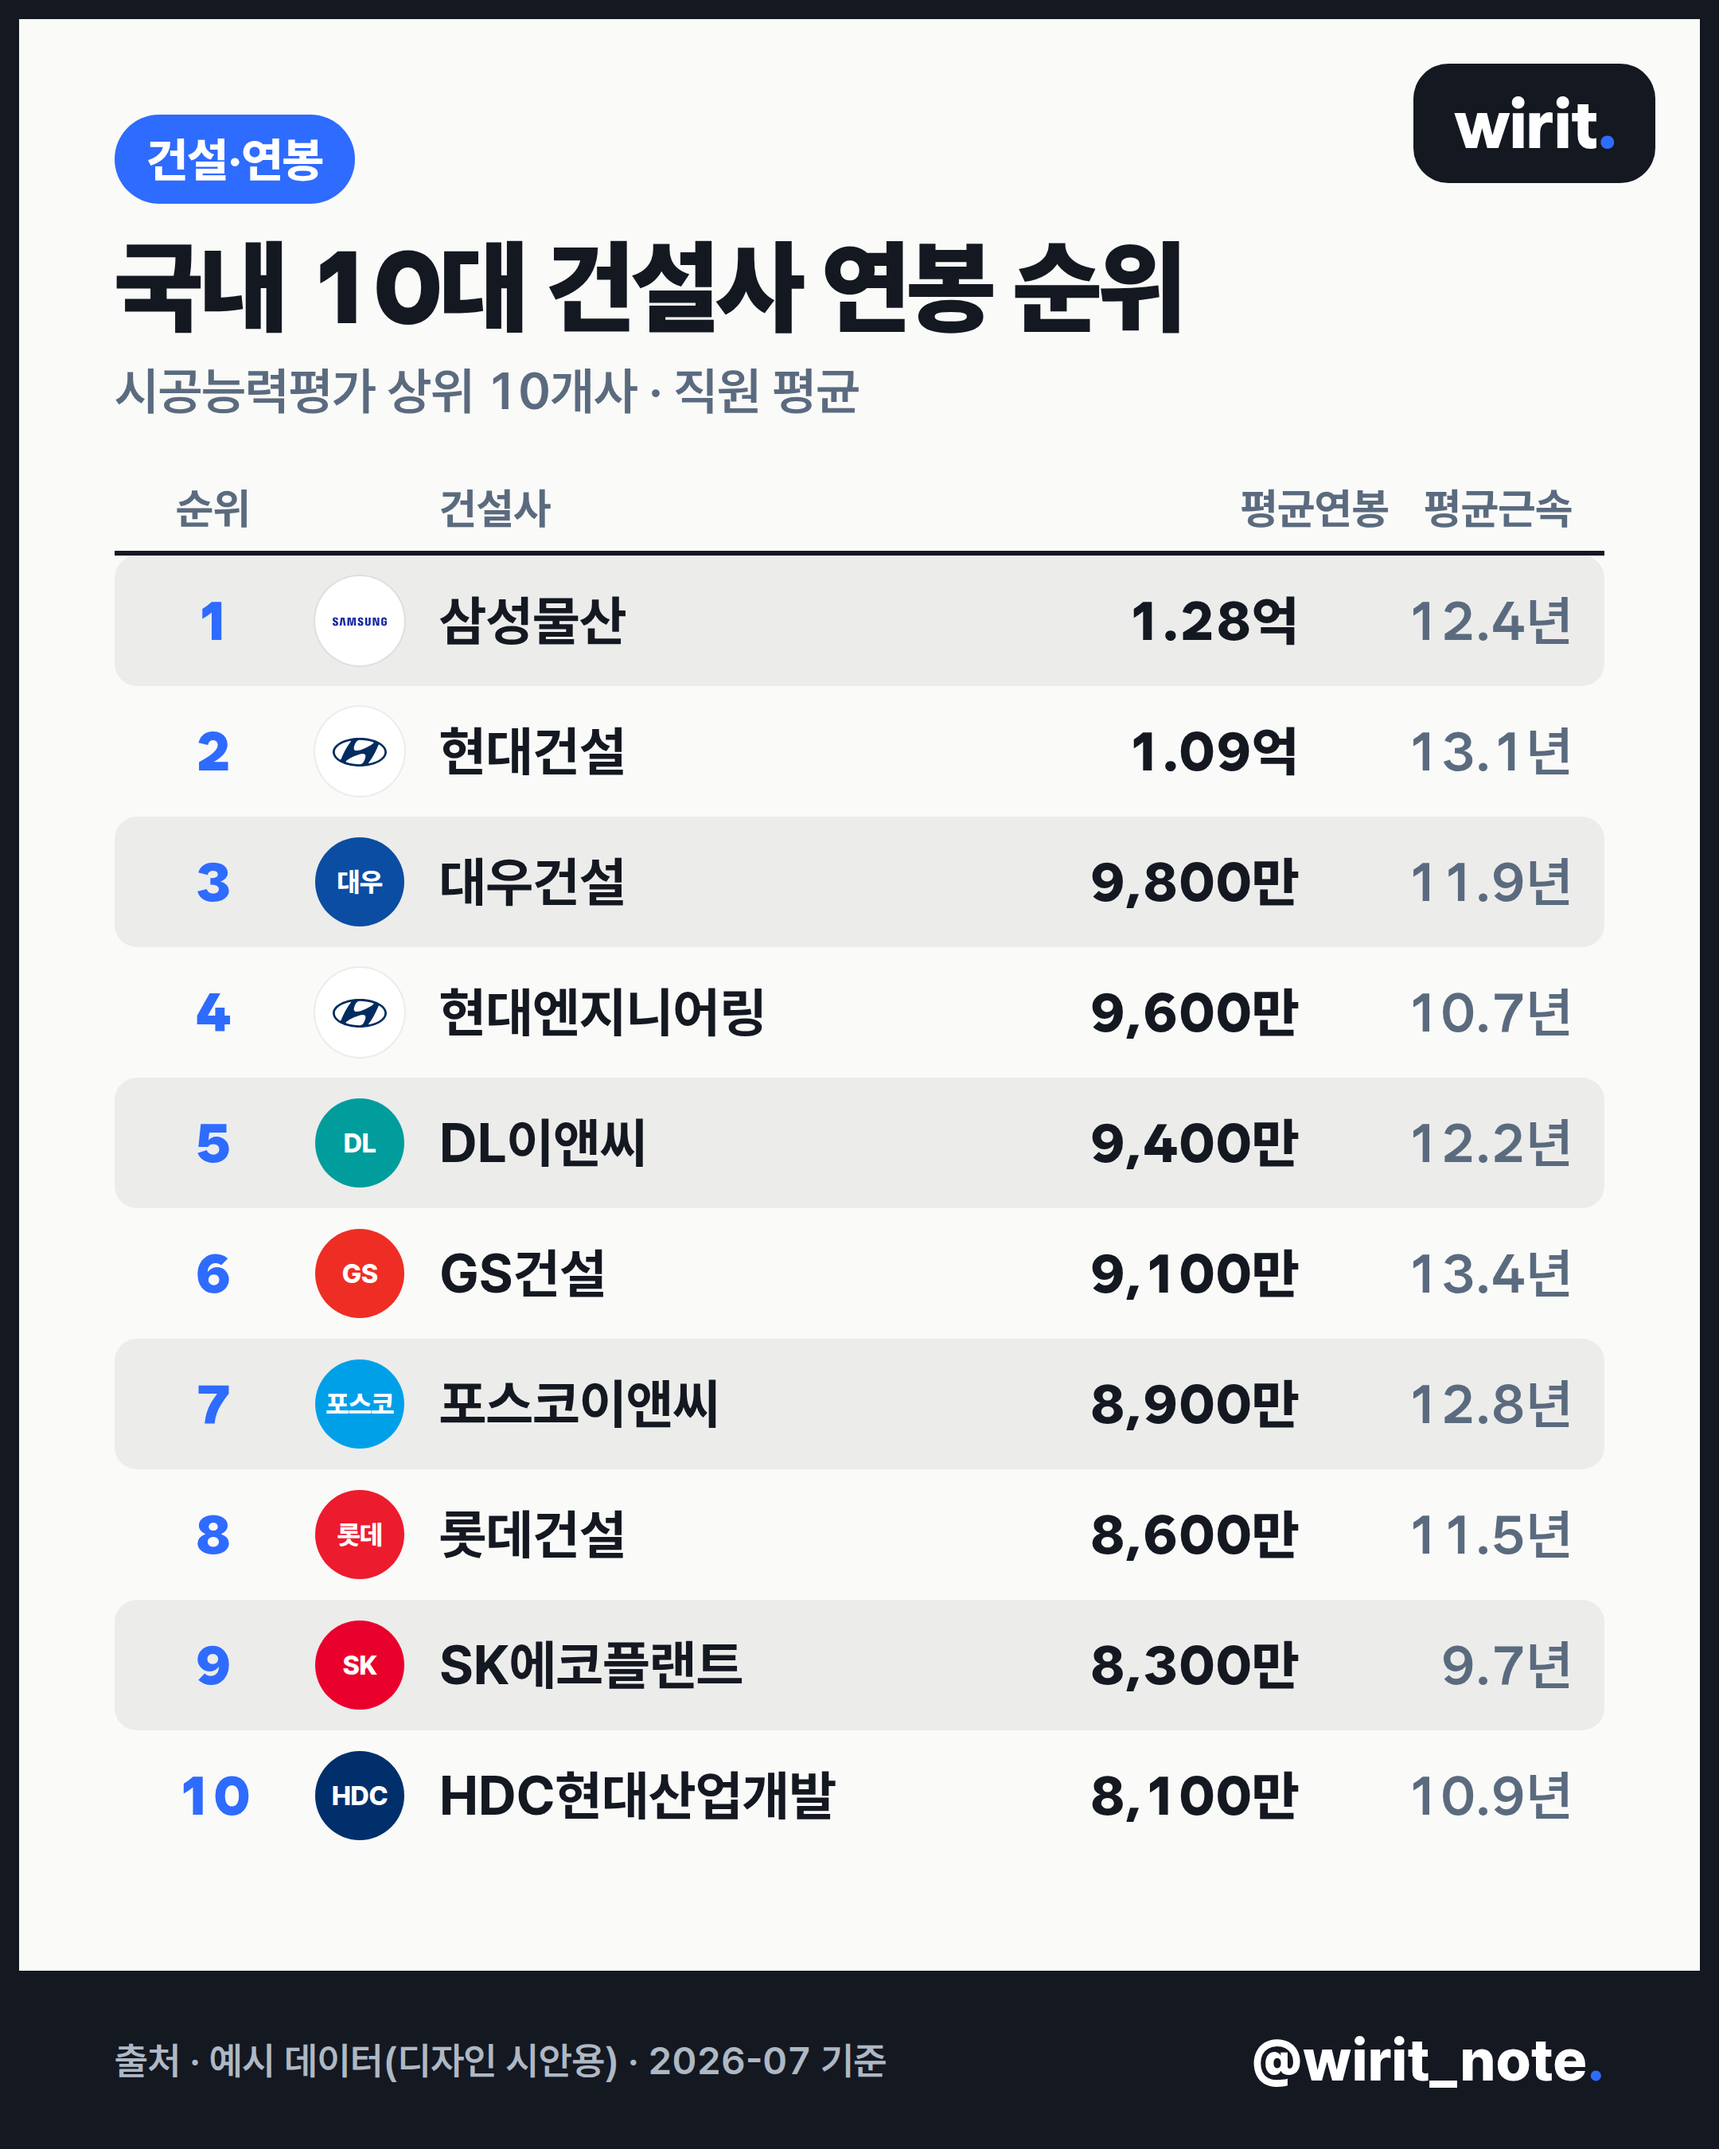
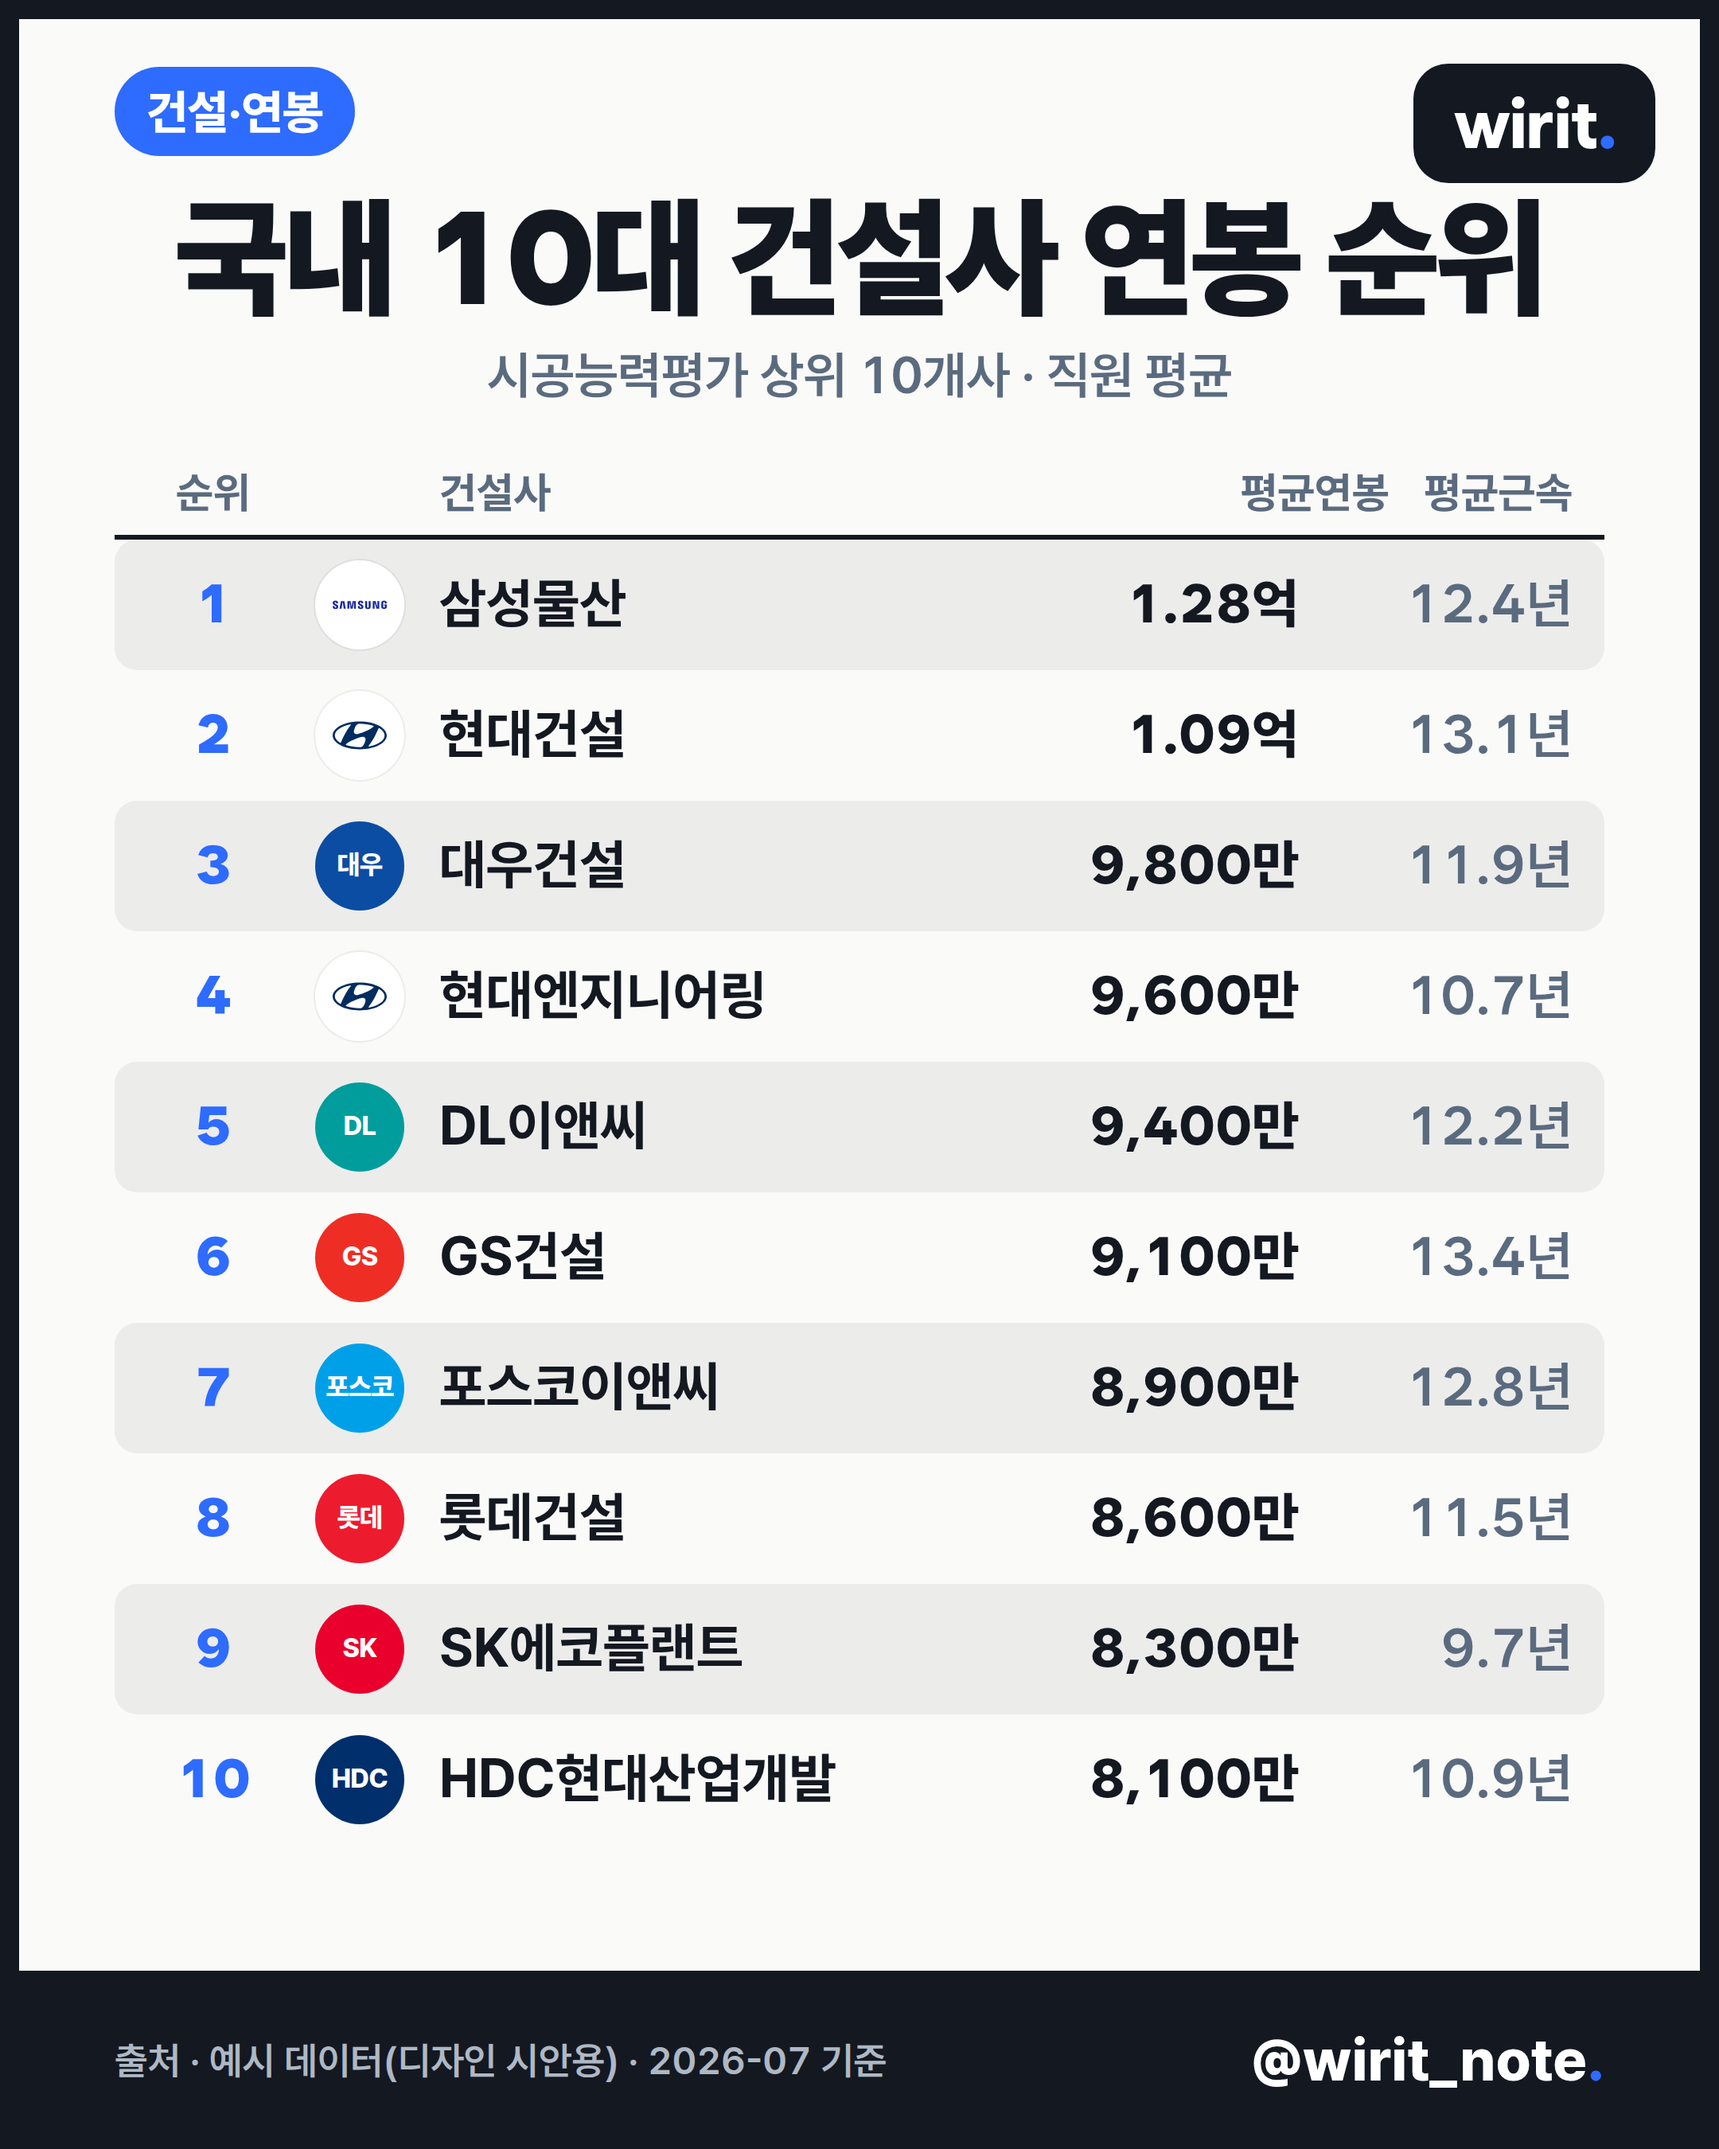
건설사 카드 헤더 통일: 상단 뱃지 정렬 + 제목 가운데·확대(82px)
- 증시 카드와 동일 방식: 뱃지를 우상단 로고 라인에 정렬, 제목·부제 중앙 정렬
- 10행 무클리핑 확인, 미리보기 갱신

Claude-Session: https://claude.ai/code/session_011udkYLBNK9UFtPjocKSiQC

diff --git a/templates/ranking-table/template.html b/templates/ranking-table/template.html
@@ -26,13 +26,24 @@
         --mono: 44px;
       }
       /* 순위표는 표 공간 확보를 위해 제목 영역을 살짝 압축 */
+      /* 상단 바: 뱃지를 우상단 로고 뱃지와 같은 높이 라인에 정렬 */
+      .rt-top {
+        display: flex;
+        align-items: center;
+        margin-top: -30px;
+        min-height: 62px;
+        padding-right: 210px; /* 우상단 로고 뱃지 자리 */
+      }
+      /* 제목·부제 가운데 정렬 + 확대 (증시 카드와 동일 방식) */
       .rt .wirit-title {
-        font-size: 64px;
-        margin-top: 18px;
+        font-size: 82px;
+        margin-top: 14px;
+        text-align: center;
       }
       .rt .wirit-subtitle {
-        margin-top: 12px;
+        margin-top: 10px;
         font-size: 32px;
+        text-align: center;
       }
 
       .rt-head {
@@ -218,7 +229,7 @@
   <body>
     <div class="wirit-card {{#if font}}font-{{font}}{{/if}} {{#if variant}}variant-{{variant}}{{else}}variant-a{{/if}} rt {{densityClass items}}">
       <div class="rt-head">
-        <span class="wirit-badge">{{badge}}</span>
+        <div class="rt-top"><span class="wirit-badge">{{badge}}</span></div>
         <h1 class="wirit-title">{{title}}</h1>
         {{#if subtitle}}<p class="wirit-subtitle">{{subtitle}}</p>{{/if}}
       </div>
